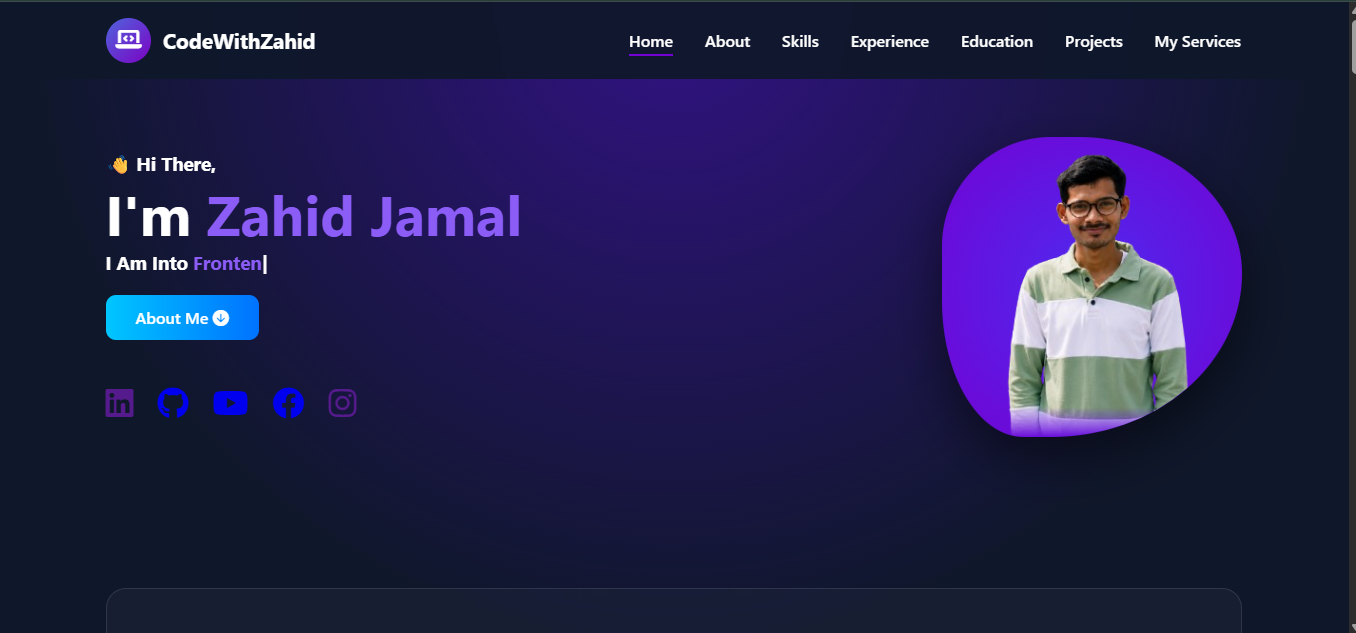
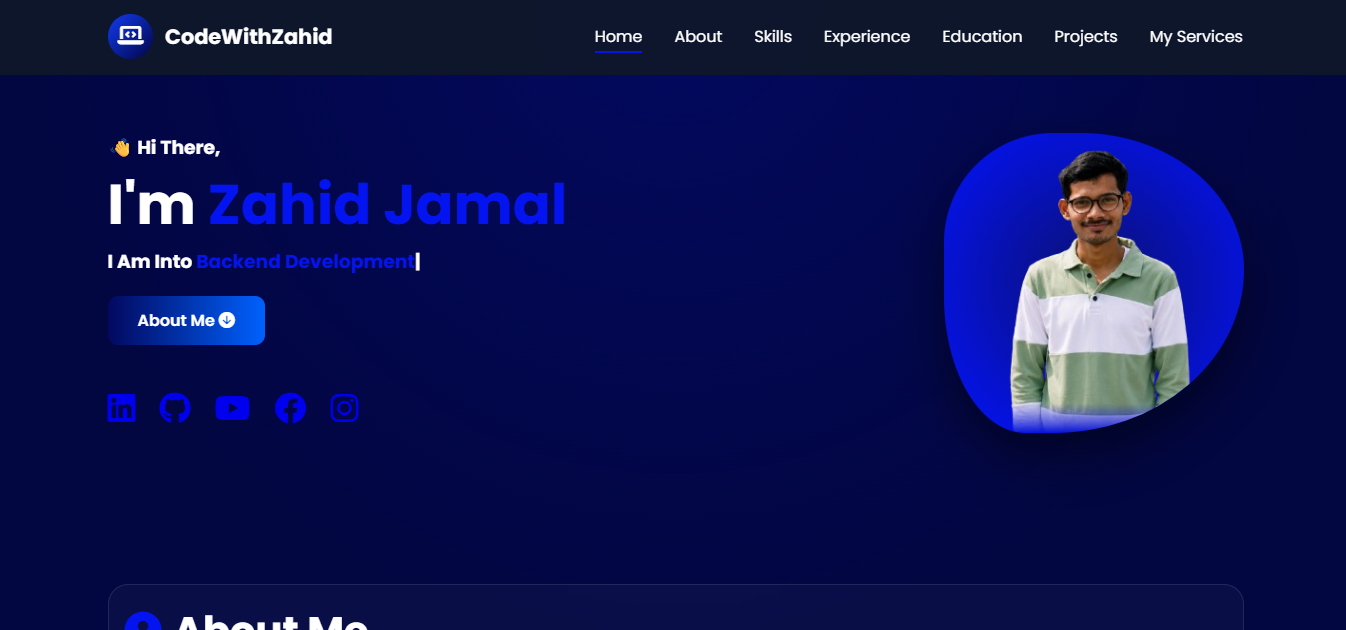
updated UI

diff --git a/assets/css/style.css b/assets/css/style.css
@@ -5,9 +5,9 @@ html{
 }
 
 :root {
-    --primary: #8b5cf6;
-    --secondary: #3b82f6;
-    --bg: #52528d;
+    --primary: #030961ef;
+    --secondary: #0061fd;
+    --bg: #030961;
     --glass: rgba(255, 255, 255, 0.03);
     --border: rgba(255, 255, 255, 0.1);
     --text: #ffffff;
@@ -24,7 +24,7 @@ body {
 /* Background Glow */
 .glow-overlay {
     position: fixed; top: 0; left: 0; width: 100%; height: 100%;
-    background: radial-gradient(circle at 50% 0%, rgba(58, 17, 155, 0.801), transparent 70%);
+    background: radial-gradient(circle at 50% 0%, #030961ef, transparent 70%);
     z-index: -1;
 }
 
@@ -88,7 +88,7 @@ header.scrolled{
     width: 45px;
     height: 45px;
     border-radius: 50%;
-    background: linear-gradient(135deg,#4f65dd,#7c02c4);
+    background: linear-gradient(135deg,#123bf1,#010546);
     display: flex;
     align-items: center;
     justify-content: center;
@@ -118,7 +118,7 @@ header.scrolled{
     height: 2px;
     left: 0;
     bottom: -5px;
-    background:rgb(114, 3, 211);
+    background:#0514f0ef;
     transition: 0.3s;
 }
 
@@ -128,7 +128,7 @@ header.scrolled{
 }
 
 .navbar ul li a:hover{
-    color: rgb(114, 3, 211);
+    color: #0514f0ef;
 }
 
 /* Menu Button */
@@ -200,7 +200,7 @@ header.scrolled{
 }
 
 h1 { font-size: 3.5rem; }
-h1 span{ color: #8b5cf6; }
+h1 span{ color: #0414f0; }
 
 @media screen and (max-width:768px){
 
@@ -244,7 +244,7 @@ h1 span{ color: #8b5cf6; }
     position: relative;
     width: 300px;
     height: 300px;
-    background: radial-gradient(circle, rgba(80, 43, 245, 0.973), rgb(114, 3, 211));
+    background: radial-gradient(circle, #0b106e, #0313ff);
     border-radius: 40% 60% 70% 30% / 40% 50% 60% 50%;
     overflow: hidden; 
     display: flex;
@@ -281,7 +281,7 @@ h1 span{ color: #8b5cf6; }
 
 .home .socials a:hover {
     transform: translateY(-5px); 
-    color: var(--primary);
+    color: #0313ff;
 }
 
 /* Specifically for the Footer Socials if they are also cramped */
@@ -442,7 +442,7 @@ h1 span{ color: #8b5cf6; }
 }
 
 .typing-text{
-    color: #8b5cf6;
+    color: #0414f0;
 }
 
 /* Add space between the individual contact items (Age, Email, etc.) */
@@ -471,7 +471,7 @@ h1 span{ color: #8b5cf6; }
 }
 
 .card-section {
-    padding: 3rem !important; 
+    padding: 1rem !important; 
 }
 
 .card-header {
@@ -483,7 +483,7 @@ h1 span{ color: #8b5cf6; }
 
 .card-header i {
     font-size: 2.3rem;      
-    color: var(--primary);  
+    color: #0414f0;  
 }
 
 .card-header h2 {
@@ -554,7 +554,7 @@ h1 span{ color: #8b5cf6; }
 
 .experience-card-header i {
     font-size: 2.8rem ;      
-    color: var(--primary); 
+    color: #0414f0; 
 }
 
 .experience-card-header h2 {
@@ -811,7 +811,7 @@ h1 span{ color: #8b5cf6; }
 }
 
 .section-title i{
-    color: var(--primary);
+    color: #0414f0;
 }
 
 .section-title span{
@@ -1035,7 +1035,7 @@ h1 span{ color: #8b5cf6; }
 }
 
 .services-section .heading i{
-    color: #00d9ff;
+    color: #0414f0;
 }
 
 /* CONTAINER */
@@ -1267,7 +1267,7 @@ footer span { color: var(--primary); font-weight: 600; }
 
 .footer .box .tagline {
     margin-top: 10px;
-    color: #8b5cf6;
+    color: #2634f5;
     font-weight: 600;
 }
 
@@ -1289,11 +1289,11 @@ footer span { color: var(--primary); font-weight: 600; }
 
 .footer .box .links  i {
     font-size: 0.7rem;
-    color: #8b5cf6;
+    color: #2634f5;
 }
 
 .footer .box .links a:hover {
-    color: #8b5cf6;
+    color: #2634f5;
     padding-left: 8px;
 }
 
@@ -1305,7 +1305,7 @@ footer span { color: var(--primary); font-weight: 600; }
 }
 
 .footer .box .contact-links i {
-    color: #8b5cf6;
+    color: #2634f5;
     width: 20px;
 }
 
@@ -1330,7 +1330,7 @@ footer span { color: var(--primary); font-weight: 600; }
 }
 
 .footer .share a:hover {
-    background: #8b5cf6;
+    background: #2634f5;
     transform: translateY(-5px);
     box-shadow: 0 5px 15px rgba(139, 92, 246, 0.4);
 }
@@ -1344,7 +1344,7 @@ footer span { color: var(--primary); font-weight: 600; }
 }
 
 .footer .credit span {
-    color: #8b5cf6;
+    color: #2634f5;
     font-weight: 600;
 }
 
@@ -1381,25 +1381,8 @@ footer span { color: var(--primary); font-weight: 600; }
 
 /* Projects.html */
 
-:root{
-    --primary:#00c6ff;
-    --secondary:#0072ff;
-    --bg:#0f172a;
-    --card:#1e293b;
-    --text:#ffffff;
-    --text-light:#cbd5e1;
-}
-
-*{
-    margin:0;
-    padding:0;
-    box-sizing:border-box;
-    font-family:Segoe UI,sans-serif;
-}
-
 body{
-    background:var(--bg);
-    color:var(--text);
+    background:#020641;
 }
 
 /* =========================
@@ -1414,7 +1397,8 @@ body{
 .hero h1{
     font-size:3rem;
     margin-bottom:15px;
-    color: rgb(165, 77, 243);
+    color: #0414f0;
+    transform: scale(1.08);
 }
 
 .hero p{
@@ -1431,7 +1415,7 @@ body{
     padding:12px 24px;
     border-radius:50px;
     text-decoration:none;
-    background:linear-gradient(45deg,rgba(80, 43, 245, 0.973), rgb(114, 3, 211));
+    background:linear-gradient(45deg,var(--primary),var(--secondary));
     color:white;
     transition:.3s;
 }

diff --git a/index.html b/index.html
@@ -359,7 +359,7 @@
                         <h3>EduEnroll</h3>
                         <p>A modern student registration portal with secure form validation and student record management.</p>
                         <div class="project-btns">
-                            <a href="https://student-registration-form-aiqg.vercel.app/" class="btn-small">Demo</a>
+                            <a href="https://student-registration-form-one-gamma.vercel.app/" class="btn-small">Demo</a>
                             <a href="https://github.com/ZahidJamal-web/Student-Registration-Form" class="btn-small outline">Code</a>
                         </div>
                     </div>
